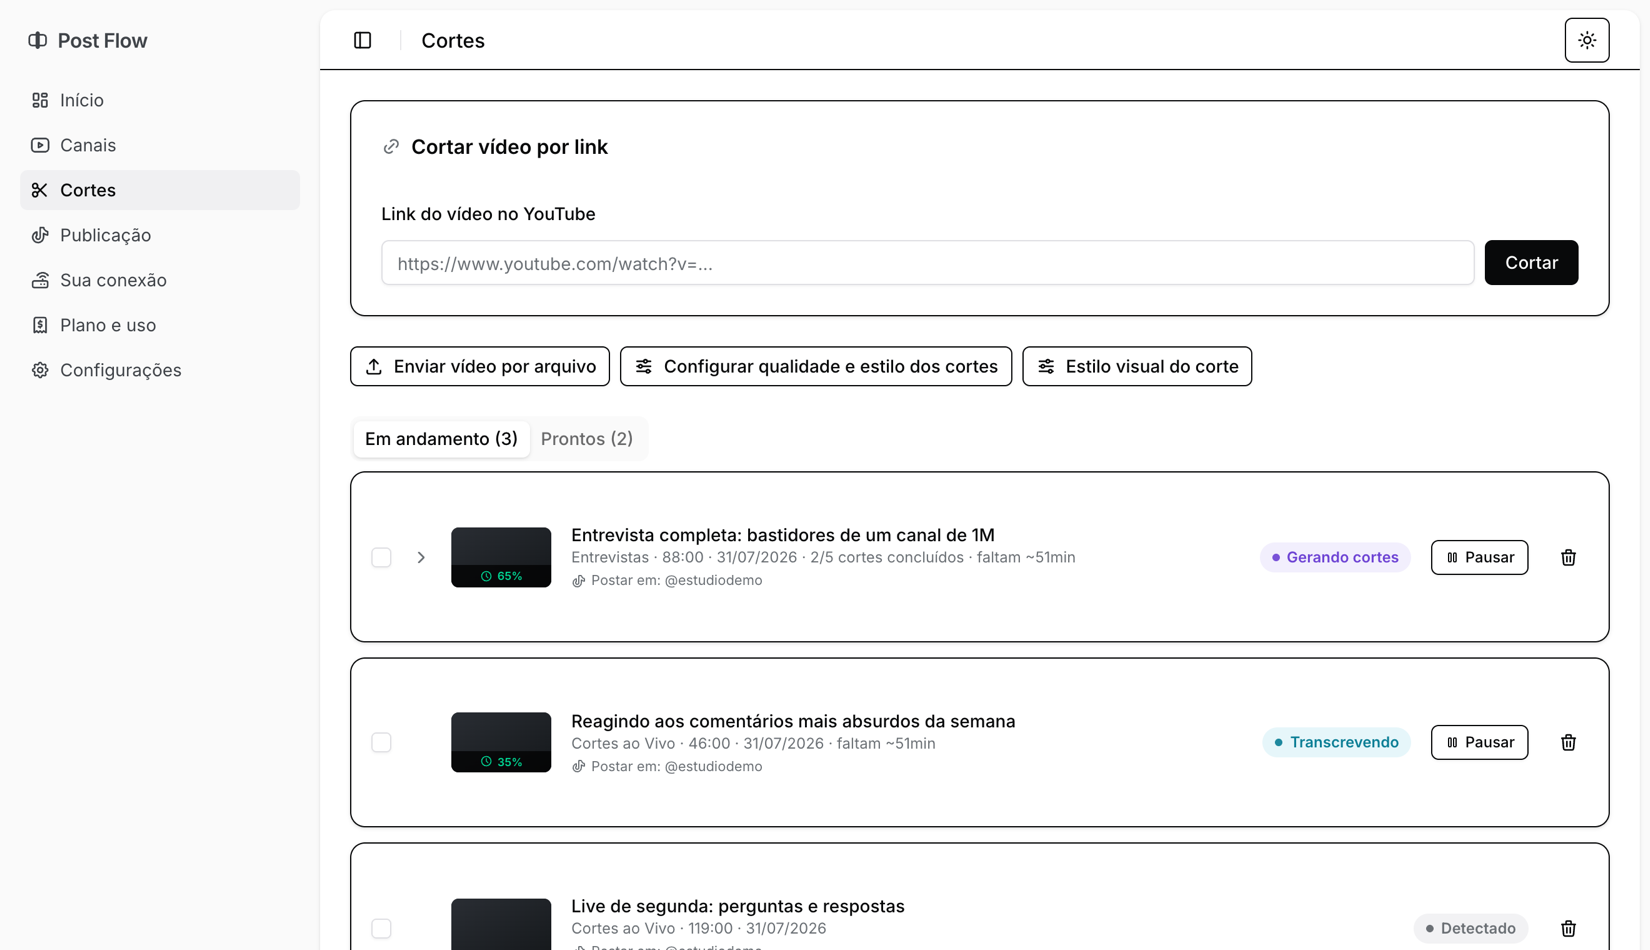
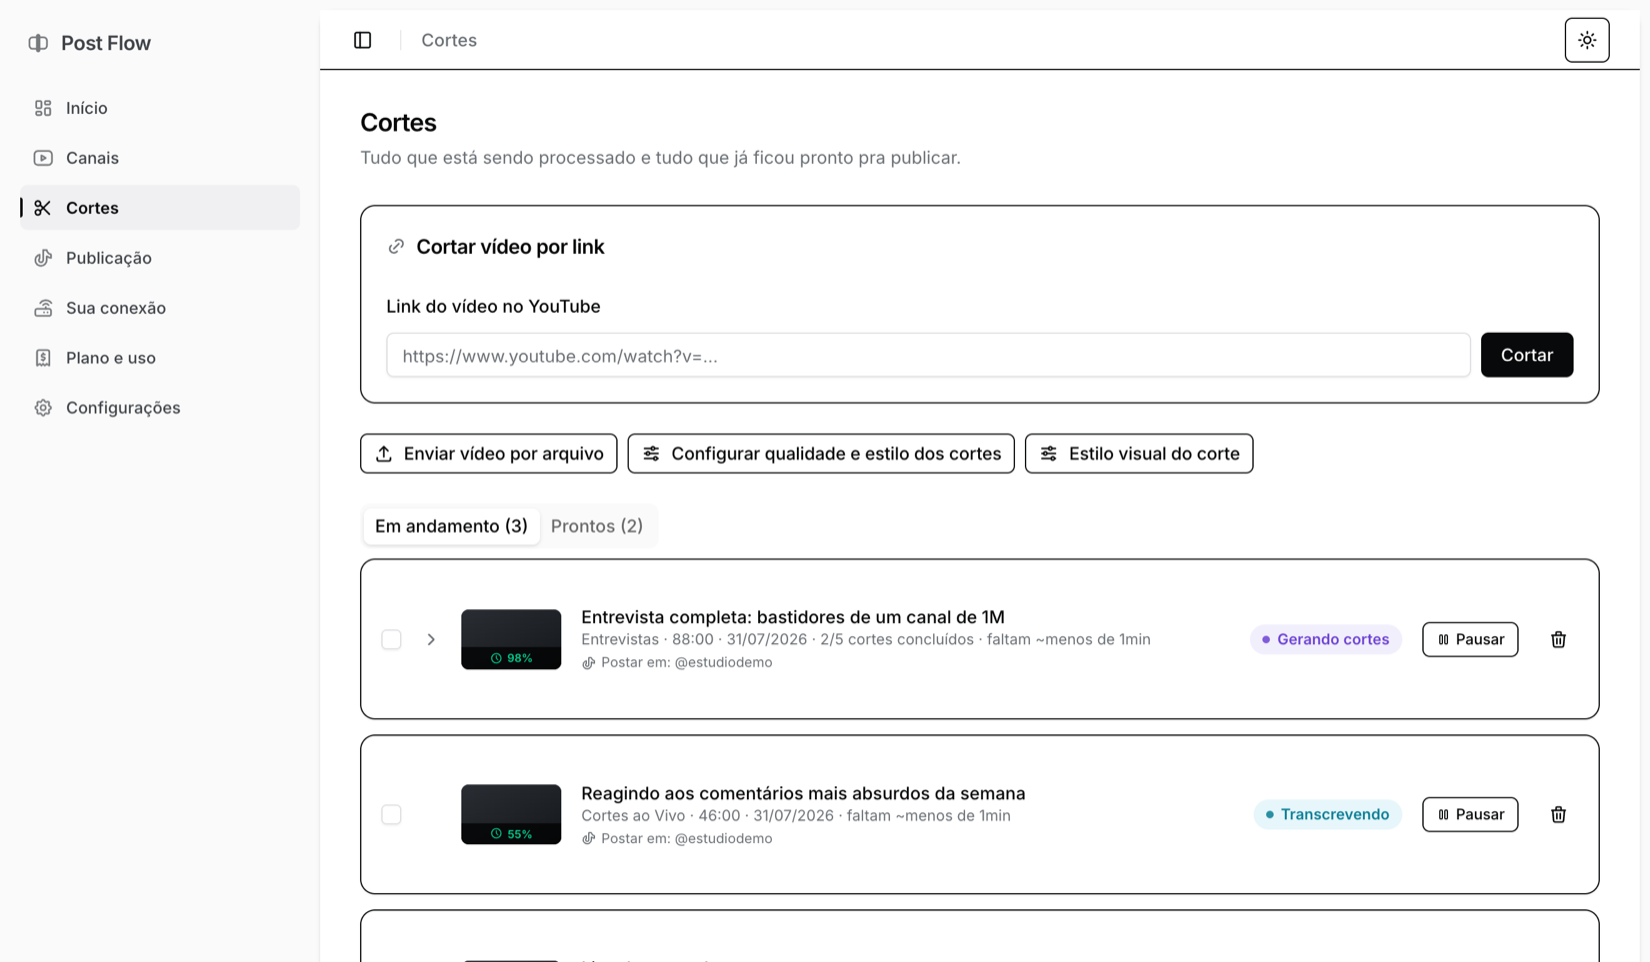
Corrige o filtro das metricas e da um periodo proprio a cada painel
Bug real: escolher "Hoje" ou "Ontem" nao mudava o custo de IA, o volume nem a
saude do pipeline. A causa e que so o bloco "Periodo selecionado" usava o
filtro; os outros tres mostravam janelas FIXAS de 7 e 30 dias e ignoravam ele.
O numero na tela nao correspondia ao filtro logo acima dele, o que parecia
painel quebrado - e era.

Agora cada painel tem o proprio filtro, no cabecalho dele:
- o front manda uma chave por painel (?volume=today&pipeline=last7days&
  cost=this_month&ranking=...), tudo numa chamada so pra nao virar quatro
  requisicoes a cada clique;
- o servidor devolve, junto, qual chave cada painel realmente usou, entao a
  tela nao sai de sincronia se alguem passar chave invalida na URL;
- o bloco "Periodo selecionado" foi removido: virou redundante quando cada
  painel passou a responder pelo proprio periodo;
- da pra comparar janelas diferentes lado a lado, que era impossivel antes.

Duas coisas continuam sem periodo, de proposito: "videos na fila agora" e um
retrato do instante, e a projecao mensal segue fixa em 7 dias porque ela existe
justamente pra extrapolar a media recente ("projecao do mes com base em hoje"
nao quer dizer nada).

Verificado com dados plantados em datas diferentes: cost=today devolve 1.20 e
cost=last7days devolve 32.28, com os outros paineis intactos.

Landing: o print em tema escuro saiu (ficava destoando do resto da pagina, que
e branca) e entrou a tela inicial em tema claro. Todos os quatro prints foram
[…]

diff --git a/web-client/src/pages/AdminMetricsPage.tsx b/web-client/src/pages/AdminMetricsPage.tsx
@@ -2,15 +2,15 @@ import { useEffect, useState } from "react"
 import { IconAlertTriangle, IconCircleCheck, IconCircleX, IconServer } from "@tabler/icons-react"
 import { CartesianGrid, Line, LineChart, XAxis, YAxis } from "recharts"
 import { DashboardLayout } from "@/components/dashboard/DashboardLayout"
+import { PageHeader } from "@/components/dashboard/PageHeader"
 import { Card, CardContent, CardHeader, CardTitle } from "@/components/ui/card"
 import { ChartContainer, ChartTooltip, ChartTooltipContent, type ChartConfig } from "@/components/ui/chart"
 import { DateRangeFilter } from "@/components/dashboard/DateRangeFilter"
 import { Skeleton } from "@/components/ui/skeleton"
 import { TonePill } from "@/components/ui/tone-pill"
 import { useAuth } from "@/hooks/useAuth"
-import { useDateRange } from "@/hooks/useDateRange"
 import { api } from "@/lib/api"
-import type { AdminMetricsResponse } from "@/types/api"
+import type { AdminMetricsResponse, DateRangeKey } from "@/types/api"
 
 const SYSTEM_CHART_CONFIG = {
   cpuPercent: { label: "CPU (carga / núcleos)", color: "var(--tone-danger-ink)" },
@@ -86,11 +86,27 @@ function BackupMetric({ backup }: { backup: AdminMetricsResponse["backup"] }) {
   )
 }
 
-function Section({ title, children }: { title: string; children: React.ReactNode }) {
+// Cada painel carrega o proprio filtro de periodo no cabecalho. Antes havia um
+// filtro so, no topo da tela, e metade dos blocos o ignorava (mostravam janela
+// fixa de 7/30 dias): escolher "Hoje" nao mudava o custo de IA, o que parecia
+// painel quebrado. Com o filtro dentro do bloco, o numero e a janela dele ficam
+// sempre no mesmo lugar, e da pra comparar periodos diferentes lado a lado.
+function Section({
+  title,
+  range,
+  onRangeChange,
+  children,
+}: {
+  title: string
+  range?: DateRangeKey
+  onRangeChange?: (r: DateRangeKey) => void
+  children: React.ReactNode
+}) {
   return (
     <Card>
-      <CardHeader>
+      <CardHeader className="flex flex-wrap items-center justify-between gap-3 has-data-[slot=card-action]:grid-cols-none">
         <CardTitle className="text-base">{title}</CardTitle>
+        {range && onRangeChange && <DateRangeFilter value={range} onChange={onRangeChange} />}
       </CardHeader>
       <CardContent className="grid grid-cols-2 gap-6 sm:grid-cols-3 lg:grid-cols-4">{children}</CardContent>
     </Card>
@@ -99,20 +115,31 @@ function Section({ title, children }: { title: string; children: React.ReactNode
 
 export function AdminMetricsPage() {
   const { user, loading: authLoading, logout } = useAuth()
-  const { range, setRange } = useDateRange()
   const [data, setData] = useState<AdminMetricsResponse | null>(null)
+  // Um periodo por painel. Vao juntos numa chamada so pra nao virar quatro
+  // requisicoes a cada clique.
+  const [rangeVolume, setRangeVolume] = useState<DateRangeKey>("last7days")
+  const [rangePipeline, setRangePipeline] = useState<DateRangeKey>("last7days")
+  const [rangeCost, setRangeCost] = useState<DateRangeKey>("last7days")
+  const [rangeRanking, setRangeRanking] = useState<DateRangeKey>("last7days")
 
   useEffect(() => {
     if (!user) return
-    api.get<AdminMetricsResponse>(`/api/admin/metrics?range=${range}`).then(setData)
-  }, [user, range])
+    const q = new URLSearchParams({
+      volume: rangeVolume,
+      pipeline: rangePipeline,
+      cost: rangeCost,
+      ranking: rangeRanking,
+    })
+    api.get<AdminMetricsResponse>(`/api/admin/metrics?${q}`).then(setData)
+  }, [user, rangeVolume, rangePipeline, rangeCost, rangeRanking])
 
   if (authLoading || !user) return null
 
   const alerts: string[] = []
   if (data) {
-    if (data.pipeline.errorRate30d > ERROR_RATE_WARN) {
-      alerts.push(`Taxa de erro do pipeline em ${pct(data.pipeline.errorRate30d)} nos últimos 30 dias. Acima do esperado.`)
+    if (data.pipeline.errorRate > ERROR_RATE_WARN) {
+      alerts.push(`Taxa de erro do pipeline em ${pct(data.pipeline.errorRate)} no período escolhido. Acima do esperado.`)
     }
     if (data.pipeline.queueDepth > QUEUE_DEPTH_WARN) {
       alerts.push(`${data.pipeline.queueDepth} vídeos acumulados na fila de espera.`)
@@ -125,10 +152,10 @@ export function AdminMetricsPage() {
 
   return (
     <DashboardLayout user={user} onLogout={logout} title="Métricas">
-      <div className="flex flex-wrap items-center justify-between gap-3">
-        <h2 className="text-sm font-medium text-muted-foreground">Período</h2>
-        <DateRangeFilter value={range} onChange={setRange} />
-      </div>
+      <PageHeader
+        title="Métricas"
+        description="Cada painel tem o próprio período, então dá pra comparar janelas diferentes lado a lado."
+      />
 
       {!data ? (
         <div className="grid gap-4">
@@ -149,40 +176,32 @@ export function AdminMetricsPage() {
             </div>
           )}
 
-          <Section title="Período selecionado">
-            <Metric label="Vídeos detectados" value={data.selected.videosDetected} />
-            <Metric label="Cortes gerados" value={data.selected.clipsGenerated} />
-            <Metric label="Cortes postados" value={data.selected.clipsPosted} />
-            <Metric label="Taxa de aproveitamento" value={pct(data.selected.aproveitamentoRate)} />
-            <Metric label="Taxa de erro" value={pct(data.selected.errorRate)} sub={`${data.selected.totalFinished} vídeos concluídos`} />
-            <Metric label="Tempo médio de processamento" value={minutes(data.selected.avgProcessingSeconds)} />
-            <Metric label="Custo total" value={usd(data.selected.totalCostUsd)} />
-            <Metric label="Custo médio por vídeo" value={usd(data.selected.avgCostPerVideo)} />
-          </Section>
-
-          <Section title="Clientes e volume">
-            <Metric label="Clientes ativos (30d)" value={data.clients.active} />
-            <Metric label="Clientes inativos" value={data.clients.inactive} />
-            <Metric label="Vídeos detectados (7d)" value={data.volume.videosDetected7d} />
-            <Metric label="Vídeos detectados (30d)" value={data.volume.videosDetected30d} />
-            <Metric label="Cortes gerados (30d)" value={data.volume.clipsGenerated30d} />
-            <Metric label="Cortes postados (30d)" value={data.volume.clipsPosted30d} />
+          <Section title="Volume" range={rangeVolume} onRangeChange={setRangeVolume}>
+            <Metric label="Vídeos detectados" value={data.volume.videosDetected} />
+            <Metric label="Cortes gerados" value={data.volume.clipsGenerated} />
+            <Metric label="Cortes postados" value={data.volume.clipsPosted} />
             <Metric label="Taxa de aproveitamento" value={pct(data.volume.aproveitamentoRate)} sub="cortes postados / gerados" />
+            <Metric label="Clientes ativos" value={data.clients.active} sub="com atividade nos últimos 30 dias" />
+            <Metric label="Clientes inativos" value={data.clients.inactive} />
           </Section>
 
-          <Section title="Saúde do pipeline">
-            <Metric label="Taxa de erro (30d)" value={pct(data.pipeline.errorRate30d)} sub={`${data.pipeline.totalFinished30d} vídeos concluídos`} />
+          <Section title="Saúde do pipeline" range={rangePipeline} onRangeChange={setRangePipeline}>
+            <Metric label="Taxa de erro" value={pct(data.pipeline.errorRate)} sub={`${data.pipeline.totalFinished} vídeos concluídos`} />
             <Metric label="Tempo médio de processamento" value={minutes(data.pipeline.avgProcessingSeconds)} />
             <Metric label="Tempo médio de espera na fila" value={minutes(data.pipeline.avgQueueWaitSeconds)} />
             <Metric label="Vídeos na fila agora" value={data.pipeline.queueDepth} />
           </Section>
 
-          <Section title="Custo de API">
-            <Metric label="Whisper (7d)" value={usd(data.cost.whisperCostUsd7d)} />
-            <Metric label="Claude (7d)" value={usd(data.cost.claudeCostUsd7d)} />
-            <Metric label="Total (7d)" value={usd(data.cost.totalCostUsd7d)} />
-            <Metric label="Custo médio por vídeo (30d)" value={usd(data.cost.avgCostPerVideo30d)} />
-            <Metric label="Projeção mensal" value={usd(data.cost.projectedMonthlyUsd)} sub="com base nos últimos 7 dias" />
+          <Section title="Custo de IA" range={rangeCost} onRangeChange={setRangeCost}>
+            <Metric label="Whisper (transcrição)" value={usd(data.cost.whisperCostUsd)} />
+            <Metric label="Claude (escolha dos cortes)" value={usd(data.cost.claudeCostUsd)} />
+            <Metric label="Total no período" value={usd(data.cost.totalCostUsd)} />
+            <Metric
+              label="Custo médio por vídeo"
+              value={usd(data.cost.avgCostPerVideo)}
+              sub={`${data.cost.videosWithCost} vídeos com custo registrado`}
+            />
+            <Metric label="Projeção mensal" value={usd(data.cost.projectedMonthlyUsd)} sub="sempre com base nos últimos 7 dias" />
           </Section>
 
           <Card>
@@ -248,11 +267,12 @@ export function AdminMetricsPage() {
 
           <Card>
             <CardHeader>
-              <CardTitle className="text-base">Ranking de clientes (30d)</CardTitle>
+              <CardTitle className="text-base">Ranking de clientes</CardTitle>
+              <DateRangeFilter value={rangeRanking} onChange={setRangeRanking} />
             </CardHeader>
             <CardContent>
               {data.ranking.length === 0 ? (
-                <p className="text-sm text-muted-foreground">Nenhum vídeo processado nos últimos 30 dias ainda.</p>
+                <p className="text-sm text-muted-foreground">Nenhum vídeo processado no período escolhido.</p>
               ) : (
                 <div className="flex flex-col gap-2">
                   {data.ranking.map((r, i) => (

diff --git a/src/web/controllers/api/adminMetricsApiController.js b/src/web/controllers/api/adminMetricsApiController.js
@@ -34,82 +34,93 @@ function buildBackupStatus(raw) {
   };
 }
 
+// Cada painel da tela de metricas tem o SEU proprio filtro de periodo.
+//
+// Antes havia um filtro so no topo, mas os blocos "Clientes e volume", "Saude
+// do pipeline" e "Custo de API" mostravam janelas fixas de 7 e 30 dias e
+// simplesmente ignoravam ele - so o bloco "Periodo selecionado" respondia. Na
+// pratica, escolher "Hoje" nao mudava o custo de IA, o que parecia painel
+// quebrado (e era: o numero na tela nao correspondia ao filtro em cima dele).
+//
+// Agora o front manda uma chave por painel (?volume=today&pipeline=last7days&
+// cost=this_month) e cada bloco responde pelo periodo dele. Numa chamada so,
+// pra nao virar tres requisicoes a cada clique.
+const PAINEIS = ['volume', 'pipeline', 'cost', 'ranking'];
+
 async function overview(req, res) {
-  const since7d = daysAgo(7);
-  const since30d = daysAgo(30);
-  const { range, since, until } = resolveRange(req.query.range);
+  // Cada painel cai no padrao (7 dias) se o front nao mandar nada, e
+  // resolveRange ja ignora chave invalida.
+  const periodos = Object.fromEntries(PAINEIS.map((p) => [p, resolveRange(req.query[p])]));
 
   const [
     clients,
-    volume30d,
-    videos7d,
-    ranking,
+    volume,
     pipeline,
-    cost7d,
-    cost30d,
+    cost,
+    ranking,
+    costPrevisao,
     queueDepth,
     services,
-    volumeSelected,
-    pipelineSelected,
-    costSelected,
-    rankingSelected,
     systemLatest,
     systemHistory,
     connectedTunnels,
     lastBackupRaw,
   ] = await Promise.all([
-    metricsRepository.clientActivity(since30d),
-    metricsRepository.volumeSince(since30d),
-    metricsRepository.volumeSince(since7d),
-    metricsRepository.clientRanking({ since: since30d, limit: 5 }),
-    metricsRepository.pipelineHealthSince(since30d),
-    metricsRepository.costSince(since7d),
-    metricsRepository.costSince(since30d),
+    metricsRepository.clientActivity(daysAgo(30)),
+    metricsRepository.volumeSince(periodos.volume.since, periodos.volume.until),
+    metricsRepository.pipelineHealthSince(periodos.pipeline.since, periodos.pipeline.until),
+    metricsRepository.costSince(periodos.cost.since, periodos.cost.until),
+    metricsRepository.clientRanking({ since: periodos.ranking.since, until: periodos.ranking.until, limit: 5 }),
+    // A projecao mensal e a unica coisa que precisa de janela fixa: ela existe
+    // justamente pra extrapolar a media recente, entao seguir o filtro
+    // tornaria o numero sem sentido ("projecao do mes com base em hoje").
+    metricsRepository.costSince(daysAgo(7)),
     metricsRepository.queueDepth(),
     metricsRepository.listServiceStatus(),
-    metricsRepository.volumeSince(since, until),
-    metricsRepository.pipelineHealthSince(since, until),
-    metricsRepository.costSince(since, until),
-    metricsRepository.clientRanking({ since, until, limit: 5 }),
     metricsRepository.latestSystemMetric(),
     metricsRepository.systemMetricsSince(daysAgo(1)),
     downloadTunnelsRepository.countConnectedClients(),
     settingsRepository.getValue('last_db_backup', null),
   ]);
 
-  const aproveitamentoRate = volume30d.clipsGenerated > 0 ? volume30d.clipsPosted / volume30d.clipsGenerated : null;
-  const avgCostPerVideo = cost30d.videosWithCost > 0 ? cost30d.totalCostUsd / cost30d.videosWithCost : null;
-  const projectedMonthlyUsd = (cost7d.totalCostUsd / 7) * 30;
-  const aproveitamentoRateSelected =
-    volumeSelected.clipsGenerated > 0 ? volumeSelected.clipsPosted / volumeSelected.clipsGenerated : null;
-  const avgCostPerVideoSelected =
-    costSelected.videosWithCost > 0 ? costSelected.totalCostUsd / costSelected.videosWithCost : null;
+  const aproveitamentoRate = volume.clipsGenerated > 0 ? volume.clipsPosted / volume.clipsGenerated : null;
+  const avgCostPerVideo = cost.videosWithCost > 0 ? cost.totalCostUsd / cost.videosWithCost : null;
+  const projectedMonthlyUsd = (costPrevisao.totalCostUsd / 7) * 30;
 
   res.json({
-    range: { key: range, since, until },
+    // Devolve a chave que cada painel realmente usou, pra tela ficar em sincronia
+    // mesmo se alguem mandar uma chave invalida na URL.
+    ranges: Object.fromEntries(PAINEIS.map((p) => [p, periodos[p].range])),
+
     clients: { active: clients.active, inactive: clients.inactive },
+
     volume: {
-      videosDetected7d: videos7d.videosDetected,
-      videosDetected30d: volume30d.videosDetected,
-      clipsGenerated30d: volume30d.clipsGenerated,
-      clipsPosted30d: volume30d.clipsPosted,
+      videosDetected: volume.videosDetected,
+      clipsGenerated: volume.clipsGenerated,
+      clipsPosted: volume.clipsPosted,
       aproveitamentoRate,
     },
-    ranking: ranking.map((r) => ({ name: r.business_name || r.email, videosCount: r.videos_count })),
+
     pipeline: {
-      errorRate30d: pipeline.errorRate,
-      totalFinished30d: pipeline.totalFinished,
+      errorRate: pipeline.errorRate,
+      totalFinished: pipeline.totalFinished,
       avgProcessingSeconds: pipeline.avgProcessingSeconds,
       avgQueueWaitSeconds: pipeline.avgQueueWaitSeconds,
+      // Fila agora e um retrato do instante, nao tem periodo.
       queueDepth,
     },
+
     cost: {
-      whisperCostUsd7d: cost7d.whisperCostUsd,
-      claudeCostUsd7d: cost7d.claudeCostUsd,
-      totalCostUsd7d: cost7d.totalCostUsd,
-      avgCostPerVideo30d: avgCostPerVideo,
+      whisperCostUsd: cost.whisperCostUsd,
+      claudeCostUsd: cost.claudeCostUsd,
+      totalCostUsd: cost.totalCostUsd,
+      avgCostPerVideo,
+      videosWithCost: cost.videosWithCost,
       projectedMonthlyUsd,
     },
+
+    ranking: ranking.map((r) => ({ name: r.business_name || r.email, videosCount: r.videos_count })),
+
     services: services.map((s) => ({
       name: s.service_name,
       lastHeartbeatAt: s.last_heartbeat_at,
@@ -137,21 +148,7 @@ async function overview(req, res) {
         memTotalMb: s.mem_total_mb,
       })),
     },
-    // Numeros recalculados so pro periodo escolhido no filtro (Hoje/Ontem/etc) -
-    // os blocos acima continuam fixos em 7d/30d como referencia de tendencia.
-    selected: {
-      videosDetected: volumeSelected.videosDetected,
-      clipsGenerated: volumeSelected.clipsGenerated,
-      clipsPosted: volumeSelected.clipsPosted,
-      aproveitamentoRate: aproveitamentoRateSelected,
-      errorRate: pipelineSelected.errorRate,
-      totalFinished: pipelineSelected.totalFinished,
-      avgProcessingSeconds: pipelineSelected.avgProcessingSeconds,
-      totalCostUsd: costSelected.totalCostUsd,
-      avgCostPerVideo: avgCostPerVideoSelected,
-      ranking: rankingSelected.map((r) => ({ name: r.business_name || r.email, videosCount: r.videos_count })),
-    },
   });
 }
 
-module.exports = { overview };
+module.exports = { overview, PAINEIS };

diff --git a/web-client/src/types/api.ts b/web-client/src/types/api.ts
@@ -78,30 +78,33 @@ export interface ClientPosting {
 }
 
 export interface AdminMetricsResponse {
-  range: RangeInfo
+  /** Período que cada painel realmente usou (o servidor devolve a chave já validada). */
+  ranges: { volume: DateRangeKey; pipeline: DateRangeKey; cost: DateRangeKey; ranking: DateRangeKey }
   clients: { active: number; inactive: number }
   volume: {
-    videosDetected7d: number
-    videosDetected30d: number
-    clipsGenerated30d: number
-    clipsPosted30d: number
+    videosDetected: number
+    clipsGenerated: number
+    clipsPosted: number
     aproveitamentoRate: number | null
   }
-  ranking: { name: string; videosCount: number }[]
   pipeline: {
-    errorRate30d: number
-    totalFinished30d: number
+    errorRate: number
+    totalFinished: number
     avgProcessingSeconds: number | null
     avgQueueWaitSeconds: number | null
+    /** Retrato do instante: quantos estão na fila agora. Não tem período. */
     queueDepth: number
   }
   cost: {
-    whisperCostUsd7d: number
-    claudeCostUsd7d: number
-    totalCostUsd7d: number
-    avgCostPerVideo30d: number | null
+    whisperCostUsd: number
+    claudeCostUsd: number
+    totalCostUsd: number
+    avgCostPerVideo: number | null
+    videosWithCost: number
+    /** Sempre com base nos últimos 7 dias: seguir o filtro tornaria a projeção sem sentido. */
     projectedMonthlyUsd: number
   }
+  ranking: { name: string; videosCount: number }[]
   services: { name: string; lastHeartbeatAt: string; isUp: boolean }[]
   system: {
     latest: {
@@ -122,18 +125,6 @@ export interface AdminMetricsResponse {
     ageHours: number | null
     sizeBytes?: number | null
     detail: string | null
-  }
-  selected: {
-    videosDetected: number
-    clipsGenerated: number
-    clipsPosted: number
-    aproveitamentoRate: number | null
-    errorRate: number
-    totalFinished: number
-    avgProcessingSeconds: number | null
-    totalCostUsd: number
-    avgCostPerVideo: number | null
-    ranking: { name: string; videosCount: number }[]
   }
 }
 
